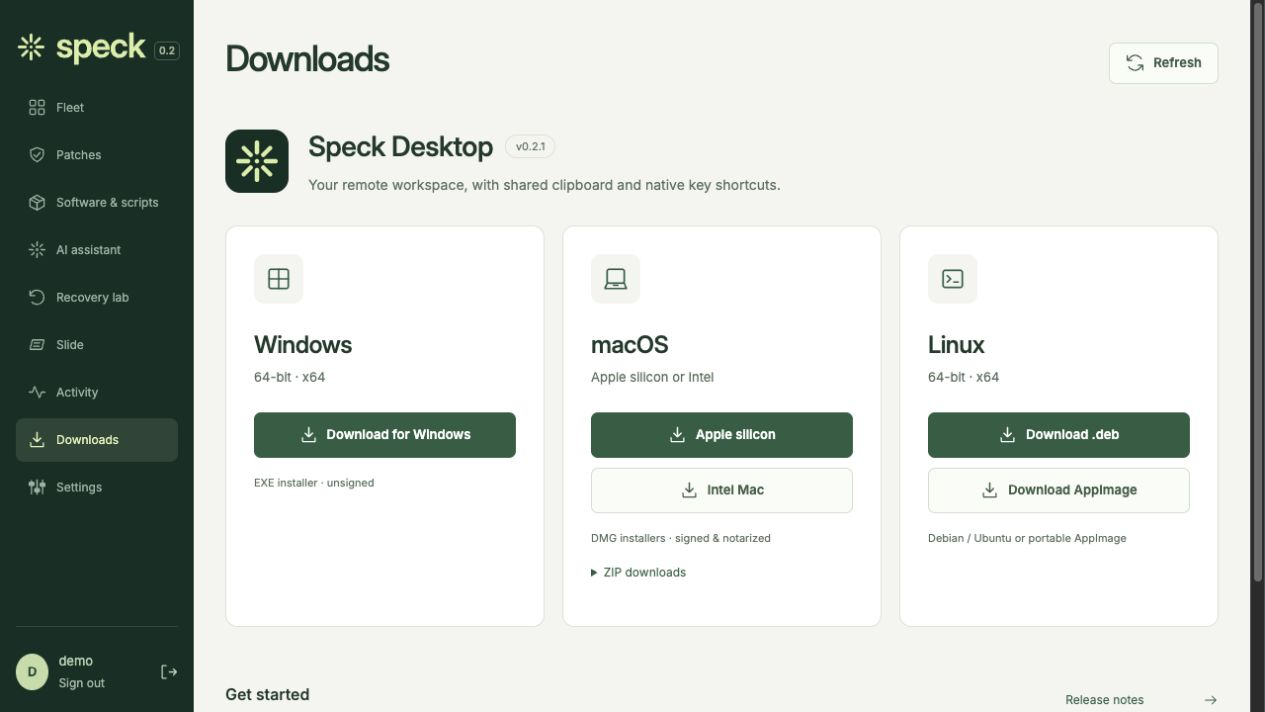
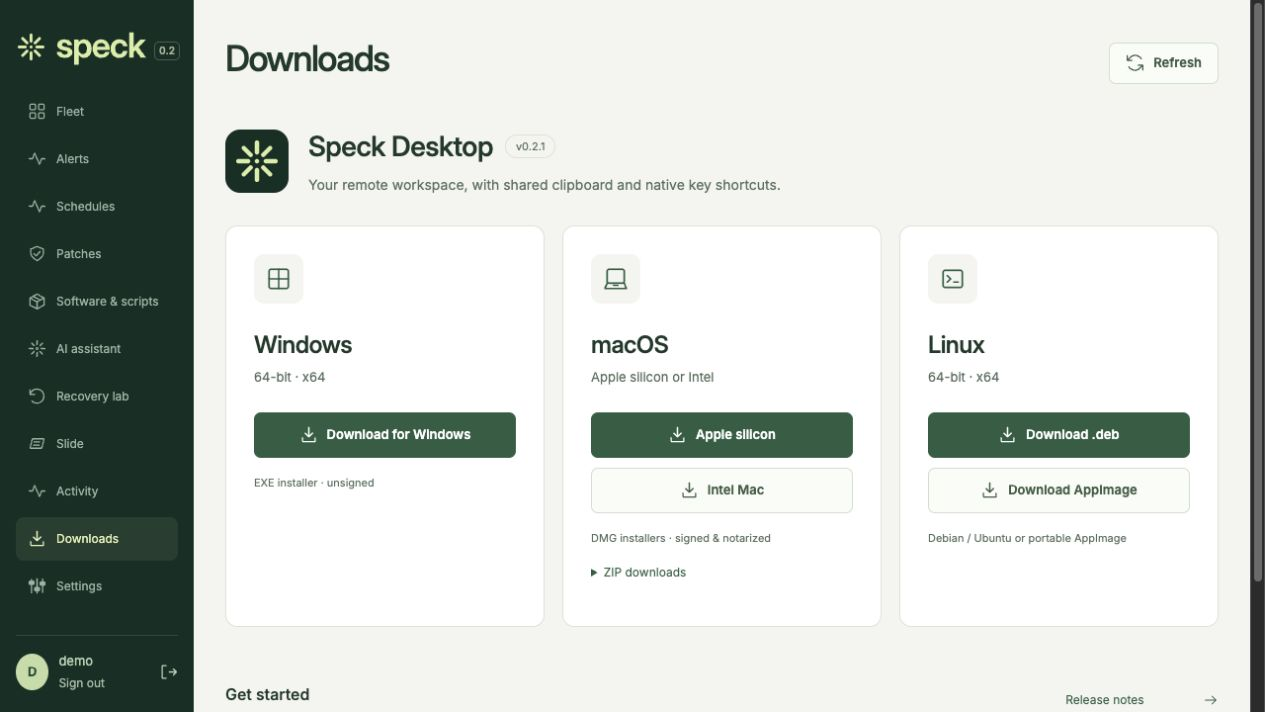
Integrate downloads with MVP sign-in and record verified static rollout

diff --git a/web/src/downloads.css b/web/src/downloads.css
@@ -201,8 +201,8 @@ aside > nav {
   }
 }
 @media (max-width: 700px) {
-  aside > nav {
-    grid-template-columns: repeat(3, minmax(0, 1fr));
+  aside > nav[aria-label="Main navigation"] {
+    grid-template-columns: repeat(4, minmax(0, 1fr));
     overflow: visible;
   }
   .downloads-public {
@@ -232,5 +232,10 @@ aside > nav {
   }
   .download-resources a {
     min-height: 44px;
+  }
+}
+@media (max-width: 360px) {
+  aside > nav[aria-label="Main navigation"] {
+    grid-template-columns: repeat(3, minmax(0, 1fr));
   }
 }

diff --git a/WORKBOOK.md b/WORKBOOK.md
@@ -138,3 +138,22 @@ code/data/config/dependency backups remain private on the server. See
 `docs/operations/management-rollout.md`, `docs/progress/CURRENT.md` and the public
 synthetic management/Safari screenshots. Windows patch/MSI installation, cloud
 recovery and remaining native runtime checks retain their documented limits.
+
+## Desktop downloads — September 22, 2026
+
+Added a branded Downloads page with direct Windows x64, Mac Apple silicon/Intel,
+and Linux x64 installers, ZIP alternatives, release notes and checksums. Links
+are available in the sidebar, sign-in, Settings and desktop handoff. Public
+access needs no account; managed-machine actions retain their authentication.
+
+Integrated after MVP main a812248, preserving MFA, viewer navigation, Safari
+select styling and remote shortcut markup. Fixed sign-out routing and checked
+320/390-pixel mobile layouts, desktop layout and the native-client external-link
+policy. All seven artifacts and checksums respond as HTTP 200 attachments.
+TypeScript/Vite pass. Live public access, sign-in, Downloads, Settings round trip,
+MVP navigation, matching asset bundle and HTTPS health were verified.
+
+Deployed static assets only, with the preceding MVP web tree retained for rollback.
+No backend restart, agent changes or recovery actions. Private deployment evidence
+is under `output/desktop-downloads/`; original screenshot bytes and digests are
+in `docs/screenshots/downloads/`.

diff --git a/docs/progress/JOURNAL.md b/docs/progress/JOURNAL.md
@@ -87,3 +87,22 @@ QA schedules inactive. Tests: 35 Python, 7 microphone, 10 desktop, Ruff and web 
 GitHub checks passed. See `docs/operations/management-rollout.md` for exact backup
 and rollback, verification limits, and private evidence location. Coordinate the
 separate Downloads and iOS tasks after this main merge.
+
+## 2026-09-22 — Desktop downloads
+
+Added a branded Downloads page with direct Windows x64, Mac Apple silicon/Intel,
+and Linux x64 installers, ZIP alternatives, release notes and checksums. Links
+are available in the sidebar, sign-in, Settings and desktop handoff. Public
+access needs no account; managed-machine actions retain their authentication.
+
+Integrated after MVP main a812248, preserving MFA, viewer navigation, Safari
+select styling and remote shortcut markup. Fixed sign-out routing and checked
+320/390-pixel mobile layouts, desktop layout and the native-client external-link
+policy. All seven artifacts and checksums respond as HTTP 200 attachments.
+TypeScript/Vite pass. Live public access, sign-in, Downloads, Settings round trip,
+MVP navigation, matching asset bundle and HTTPS health were verified.
+
+Deployed static assets only, with the preceding MVP web tree retained for rollback.
+No backend restart, agent changes or recovery actions. Private deployment evidence
+is under `output/desktop-downloads/`; original screenshot bytes and digests are
+in `docs/screenshots/downloads/`.

diff --git a/docs/screenshots/downloads/README.md b/docs/screenshots/downloads/README.md
@@ -18,9 +18,10 @@ Original-byte digests and image dimensions are in [manifest.json](manifest.json)
 | --- | --- | --- |
 | [![Mobile downloads](mobile.jpg)](mobile.jpg) | [![Mobile installer choices](mobile-installers.jpg)](mobile-installers.jpg) | [![Sign-in download link](mobile-sign-in.jpg)](mobile-sign-in.jpg) |
 
-Verified the desktop and 390-pixel mobile layouts, 46-pixel primary download
+Verified the desktop and 320/390-pixel mobile layouts, 46-pixel primary download
 buttons, alternate Mac ZIP links, Settings round trip, sign-out/download routing,
-and public deep link. All seven installers and SHA256SUMS return HTTP 200 with
+and public deep link. Rechecked after integrating the MVP release, preserving
+MFA sign-in, role-aware navigation and Safari select styling. All seven installers and SHA256SUMS return HTTP 200 with
 attachment headers. TypeScript and the production Vite build pass.
 
 The platform catalog is kept in `web/src/downloads.ts`. Advance its version only

diff --git a/docs/progress/CURRENT.md b/docs/progress/CURRENT.md
@@ -32,3 +32,9 @@ See [review](../MVP-REVIEW.md), [management guide](../management.md),
 
 Next: finish Windows selected-patch/MSI acceptance and the remaining recovery and
 native platform qualification matrix before claiming broader production readiness.
+
+Desktop client downloads are live at https://speckrmm.com/#downloads, available
+from the sidebar, sign-in, Settings and desktop handoff. The page links the
+published 0.2.1 Windows, macOS and Linux packages. See the
+[download gallery](../screenshots/downloads/README.md). This was a static-only
+rollout after the MVP release, preserving its authentication and Safari fixes.
